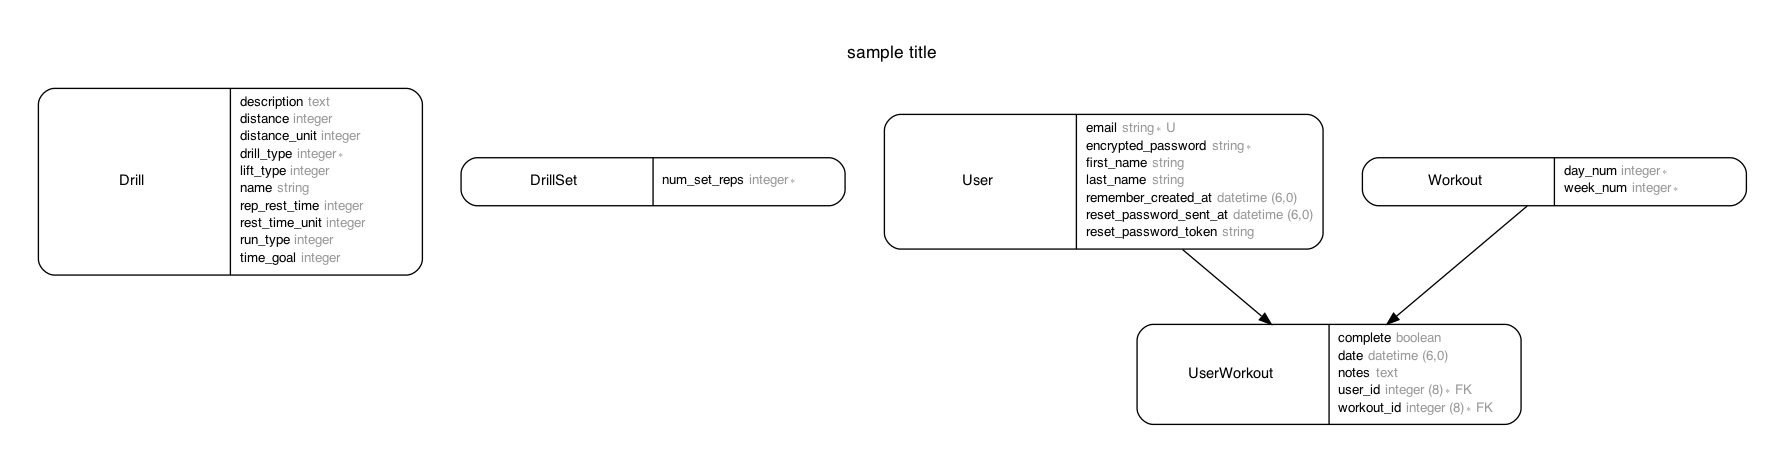
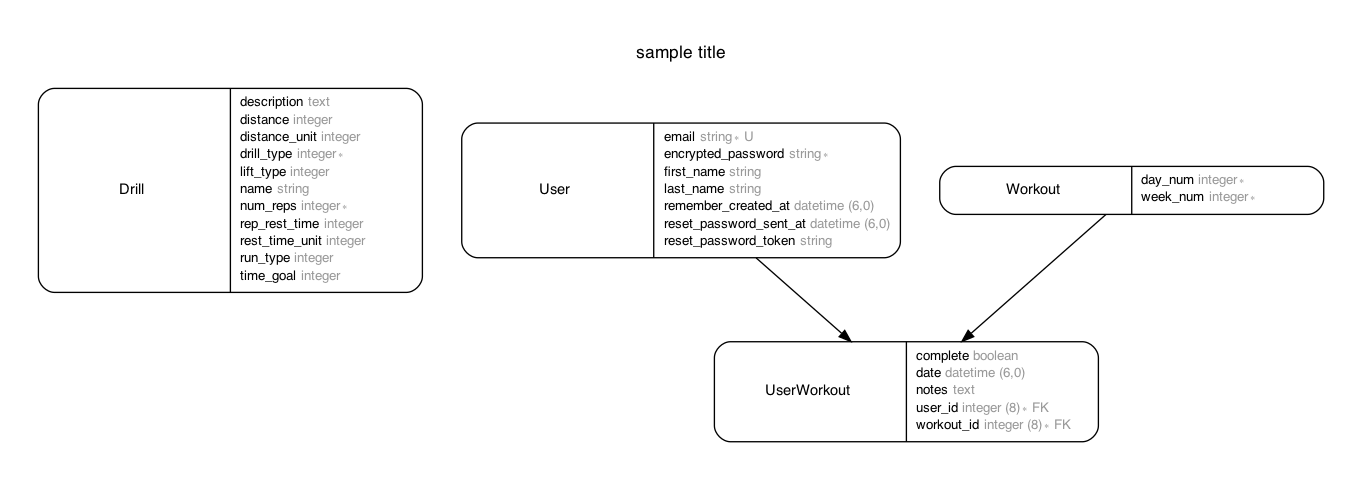
revamp modeling

diff --git a/spec/factories/drills.rb b/spec/factories/drills.rb
@@ -2,6 +2,7 @@ FactoryBot.define do
   factory :drill do
     name { 'Long Run' }
     drill_type { :conditioning }
+    num_reps { 1 }
     distance_unit { :miles }
     time_goal { 30 }
     description { '30 minutes at the fastest pace you can run' }
@@ -11,6 +12,7 @@ FactoryBot.define do
     trait :long_run do
       name { 'Long Run' }
       drill_type { :conditioning }
+      num_reps { 1 }
       run_type { :long_run }
       distance_unit { :miles }
       time_goal { 30 }
@@ -20,6 +22,7 @@ FactoryBot.define do
     trait :hundreds do
       name { "100's on the minute" }
       drill_type { :conditioning }
+      num_reps { 10 }
       run_type { :hundreds }
       distance { 100 }
       distance_unit { :yards }
@@ -29,6 +32,7 @@ FactoryBot.define do
     trait :speed_training do
       name { 'Speed Training - 60' }
       drill_type { :conditioning }
+      num_reps { 6 }
       run_type { :speed_training }
       distance { 60 }
       distance_unit { :yards }
@@ -40,6 +44,7 @@ FactoryBot.define do
     trait :yard_sets do
       name { 'Yard Set (25)' }
       drill_type { :conditioning }
+      num_reps { 4 }
       run_type { :yard_sets }
       distance { 300 }
       distance_unit { :yards }
@@ -51,6 +56,7 @@ FactoryBot.define do
     trait :mile_reps do
       name { 'Mile Reps' }
       drill_type { :conditioning }
+      num_reps { 3 }
       run_type { :mile_reps }
       distance { 0.5 }
       distance_unit { :miles }

diff --git a/lib/seeds/workout_seeder.rb b/lib/seeds/workout_seeder.rb
@@ -5,22 +5,20 @@ module Seeds
 
     def seed_db
       create_workouts
-      create_conditioning_sets
-      create_conditioning_exercises
-      create_conditioning_
+      create_drills
     end
 
     def models_to_clean
       [
         Workout,
-        ConditioningSet,
+        Drill,
       ]
     end
 
     def models_seeded
       [
         Workout,
-        ConditioningSet
+        Drill,
       ]
     end
 
@@ -33,12 +31,16 @@ module Seeds
       Workout.create!(workouts_array)
     end
 
-    def create_conditioning_sets
-      # run_types.keys.length == WEEKDAYS.length
-      cs_array = ConditioningSet.run_types.keys.flat_map do |run_type|
-        Array.new(NUM_WEEKS) { { run_type: run_type }}
+    def create_drills
+      create_conditioning_drills
+      # create_lifting_drills
+    end
+
+    def create_conditioning_drills
+      cs_drills = Drill.run_types.keys.flat_map do |run_type|
+        Array.new(NUM_WEEKS) { FactoryBot.attributes_for(:drill, run_type) }
       end
-      ConditioningSet.create!(cs_array)
+      Drill.create!(cs_drills)
     end
   end
 end

diff --git a/db/schema.rb b/db/schema.rb
@@ -15,15 +15,10 @@ ActiveRecord::Schema.define(version: 2021_12_29_200006) do
   # These are extensions that must be enabled in order to support this database
   enable_extension "plpgsql"
 
-  create_table "drill_sets", force: :cascade do |t|
-    t.integer "num_set_reps", null: false
-    t.datetime "created_at", precision: 6, null: false
-    t.datetime "updated_at", precision: 6, null: false
-  end
-
   create_table "drills", force: :cascade do |t|
     t.string "name"
     t.integer "drill_type", null: false
+    t.integer "num_reps", null: false
     t.integer "run_type"
     t.integer "lift_type"
     t.integer "distance"

diff --git a/db/migrate/20211229200006_create_drills.rb b/db/migrate/20211229200006_create_drills.rb
@@ -3,6 +3,7 @@ class CreateDrills < ActiveRecord::Migration[7.0]
     create_table :drills do |t|
       t.string :name
       t.integer :drill_type, null: false
+      t.integer :num_reps, null: false
       t.integer :run_type
       t.integer :lift_type
       t.integer :distance

diff --git a/app/models/drill.rb b/app/models/drill.rb
@@ -1,8 +1,5 @@
 class Drill < ApplicationRecord
-  # has_many :drill_set_drills
-  # has_many :drill_sets, through: :drill_set_drills
-
-  validates_presence_of :drill_type
+  validates_presence_of :drill_type, :num_reps
 
   enum drill_type: {
     conditioning: 0,

diff --git a/app/models/workout.rb b/app/models/workout.rb
@@ -12,4 +12,7 @@ class Workout < ApplicationRecord
     friday: 5,
     saturday: 6,
   }
+
+  NUM_CONDITIONING_SET_REPS = 1 # do each set once
+  NUM_LIFTING_SET_REPS = 3 # do each set 3 times (unless between sets)
 end

diff --git a/spec/models/drill_spec.rb b/spec/models/drill_spec.rb
@@ -6,4 +6,5 @@ RSpec.describe Drill, type: :model do
   it { is_expected.to be_valid }
 
   it { is_expected.to validate_presence_of(:drill_type) }
+  it { is_expected.to validate_presence_of(:num_reps) }
 end
